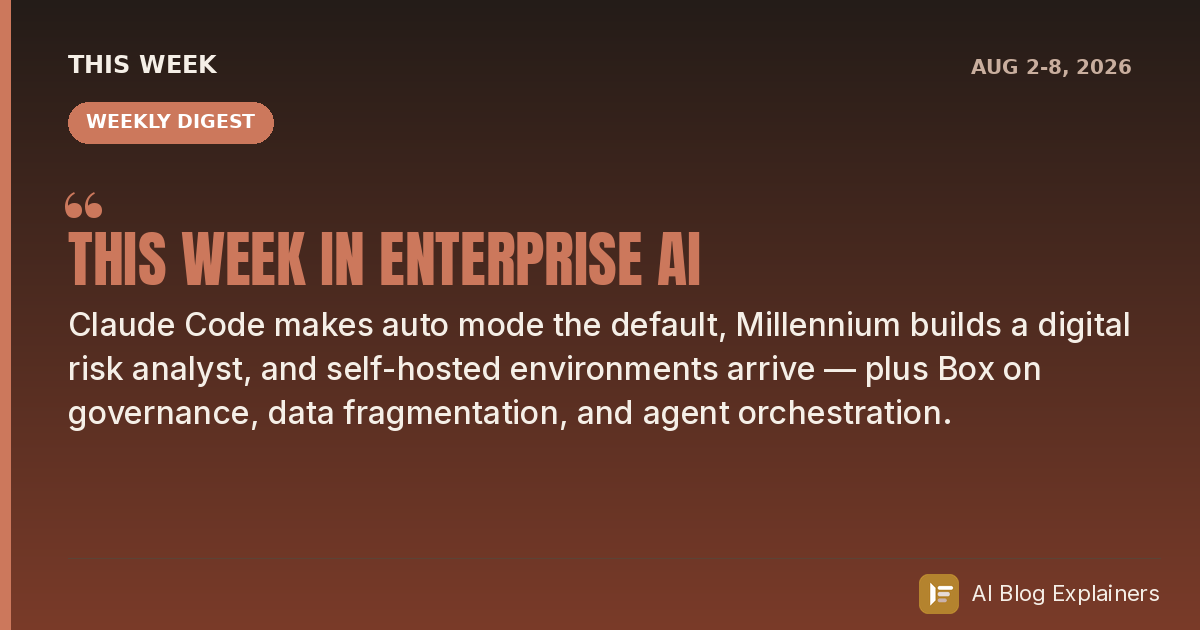
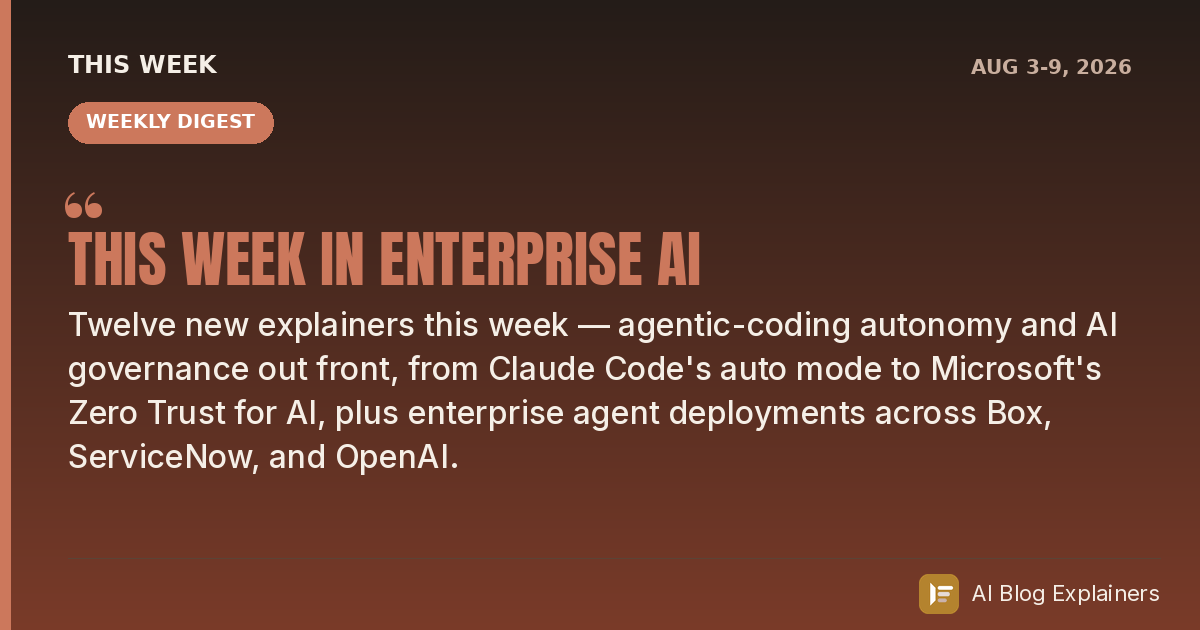
Add explainer + share card: Auto Mode in Production (Nuro, Gusto & Garner Health); refresh weekly rollup

Changed region(s): [[0.0617, 0.4825, 0.9558, 0.6032], [0.0617, 0.6333, 0.8633, 0.754], [0.8633, 0.0905, 0.8942, 0.1206]]

diff --git a/explainers/auto-mode-in-production.html b/explainers/auto-mode-in-production.html
@@ -1,0 +1,328 @@
+<!DOCTYPE html>
+<html lang="en">
+<head>
+<meta charset="UTF-8">
+<meta name="viewport" content="width=device-width, initial-scale=1.0">
+<link rel="icon" href="../favicon.svg" type="image/svg+xml">
+<meta property="og:type" content="article">
+<meta property="og:title" content="Auto Mode in Production: Nuro, Gusto & Garner Health">
+<meta property="og:description" content="Three engineering teams explain why a safety classifier that vets every command became their daily driver — longer autonomous sessions, fewer prompts, and where they still take the wheel back.">
+<meta property="og:url" content="https://snigdhadasgupta.github.io/ai-blog-explainers/explainers/auto-mode-in-production.html">
+<meta property="og:image" content="https://snigdhadasgupta.github.io/ai-blog-explainers/share-cards/auto-mode-in-production.png">
+<meta property="og:image:secure_url" content="https://snigdhadasgupta.github.io/ai-blog-explainers/share-cards/auto-mode-in-production.png">
+<meta property="og:image:type" content="image/png">
+<meta property="og:image:width" content="1200">
+<meta property="og:image:height" content="630">
+<meta name="twitter:card" content="summary_large_image">
+<meta name="twitter:title" content="Auto Mode in Production: Nuro, Gusto & Garner Health">
+<meta name="twitter:image" content="https://snigdhadasgupta.github.io/ai-blog-explainers/share-cards/auto-mode-in-production.png">
+<title>Auto Mode in Production — Explainer</title>
+<style>
+  :root{
+    --clay:#CC785C;--clay-dark:#A8543C;--clay-deep:#7A3B29;--ink:#1F1B18;--slate:#3D3733;--stone:#6B6259;--cream:#F5F2EC;--paper:#FBFAF6;--sand:#EDE7DB;--line:#DED6C7;
+    --accent:#CC785C;--accent-deep:#7A3B29;
+    --serif:'Georgia','Times New Roman',serif;--sans:-apple-system,'Segoe UI',Helvetica,Arial,sans-serif;--mono:'SFMono-Regular','Consolas','Menlo',monospace;
+  }
+  *{box-sizing:border-box;margin:0;padding:0;}
+  body{background:var(--cream);color:var(--ink);font-family:var(--sans);line-height:1.6;-webkit-font-smoothing:antialiased;}
+  .wrap{max-width:1080px;margin:0 auto;padding:0 24px;}
+  .topbar{border-top:5px solid var(--clay);background:var(--paper);border-bottom:1px solid var(--line);}
+  .topbar .wrap{display:flex;align-items:center;justify-content:space-between;padding:16px 24px;}
+  .brand{display:flex;align-items:center;gap:12px;font-weight:700;letter-spacing:.02em;}
+  .brand .dot{width:26px;height:26px;border-radius:6px;background:var(--clay);display:inline-flex;align-items:center;justify-content:center;color:#fff;font-family:var(--serif);font-size:16px;}
+  .srcbadge{font-size:11px;letter-spacing:.14em;text-transform:uppercase;font-weight:700;color:#fff;background:var(--accent);padding:5px 12px;border-radius:100px;}
+  .hero{background:linear-gradient(160deg,#241813 0%,#5E2E20 55%,var(--accent-deep) 100%);color:#F6ECE6;padding:46px 0 40px;position:relative;overflow:hidden;}
+  .herobg{position:absolute;top:0;right:-4%;height:100%;width:42%;pointer-events:none;opacity:.85;}
+  .herobg svg{width:100%;height:100%;display:block;}
+  .hnode{fill:var(--accent);}
+  .hero .wrap{max-width:900px;position:relative;z-index:1;}
+  .hero .tag{display:inline-block;font-size:12px;letter-spacing:.16em;text-transform:uppercase;color:#EBC3B3;border:1px solid rgba(235,195,179,.4);padding:5px 12px;border-radius:100px;margin-bottom:22px;}
+  .hero h1{font-family:var(--serif);font-size:clamp(30px,4.6vw,50px);line-height:1.09;font-weight:700;margin-bottom:18px;}
+  .hero p.lede{font-size:clamp(17px,2.2vw,21px);color:#F0DED5;max-width:720px;}
+  .meta{display:flex;flex-wrap:wrap;gap:24px;margin-top:24px;padding-top:18px;border-top:1px solid rgba(246,236,230,.18);font-size:13px;}
+  .meta .m span{display:block;color:#DCA891;letter-spacing:.12em;text-transform:uppercase;font-size:10.5px;margin-bottom:3px;}
+  .meta .m strong{font-weight:600;color:#F8EFE9;font-size:14px;}
+  section{padding:32px 0;border-bottom:1px solid var(--line);}
+  .eyebrow{font-size:12px;letter-spacing:.16em;text-transform:uppercase;color:var(--accent-deep);font-weight:700;margin-bottom:12px;display:flex;align-items:center;gap:10px;}
+  .eyebrow::before{content:"";width:26px;height:2px;background:var(--accent);display:inline-block;}
+  h2{font-family:var(--serif);font-size:clamp(24px,3.4vw,34px);line-height:1.15;margin-bottom:16px;color:var(--ink);}
+  h3{font-size:19px;margin-bottom:8px;color:var(--slate);}
+  p.body{font-size:16px;color:var(--slate);margin-bottom:12px;max-width:760px;}
+  .lead-quote{font-family:var(--serif);font-size:19px;line-height:1.4;color:var(--accent-deep);border-left:4px solid var(--accent);padding:4px 0 4px 20px;margin:18px 0;max-width:730px;}
+  .tldr{background:var(--paper);border:1px solid var(--line);border-radius:14px;padding:22px 26px;}
+  .tldr h2{font-size:20px;margin-bottom:14px;}
+  .tldr ul{list-style:none;counter-reset:tl;}
+  .tldr li{counter-increment:tl;position:relative;padding-left:46px;margin-bottom:11px;font-size:15.5px;color:var(--slate);}
+  .tldr li::before{content:counter(tl,decimal-leading-zero);position:absolute;left:0;top:-1px;font-family:var(--serif);font-size:19px;font-weight:700;color:var(--accent,var(--clay));}
+  .tldr li strong{color:var(--ink);font-weight:700;}
+  .figure{background:var(--paper);border:1px solid var(--line);border-radius:16px;padding:22px;margin:20px 0;}
+  .figure .cap{font-size:12.5px;color:var(--stone);text-transform:uppercase;letter-spacing:.1em;margin-bottom:20px;font-weight:700;}
+  .scards{display:grid;grid-template-columns:1fr 1fr;gap:14px;margin-top:8px;}
+  @media(max-width:640px){.scards{grid-template-columns:1fr;}}
+  .scard{background:var(--cream);border:1px solid var(--line);border-radius:14px;padding:18px 20px;}
+  .scard .big{font-family:var(--serif);font-size:33px;font-weight:700;color:var(--accent-deep);line-height:1;}
+  .scard .meas{font-size:10.5px;letter-spacing:.12em;text-transform:uppercase;color:var(--stone);font-weight:700;margin:9px 0 4px;}
+  .scard .ctx{font-size:12.5px;color:var(--stone);line-height:1.42;}
+  .fignote{font-size:12px;color:var(--stone);font-style:italic;margin-top:16px;line-height:1.45;}
+  .grid3{display:grid;grid-template-columns:repeat(3,1fr);gap:18px;margin-top:8px;}
+  @media(max-width:820px){.grid3{grid-template-columns:1fr;}}
+  .grid2{display:grid;grid-template-columns:repeat(2,1fr);gap:18px;margin-top:8px;}
+  @media(max-width:820px){.grid2{grid-template-columns:1fr;}}
+  .card{background:var(--paper);border:1px solid var(--line);border-radius:14px;padding:22px;}
+  .card h3{font-size:16px;margin-bottom:8px;}
+  .card p{font-size:13.5px;color:var(--stone);}
+  .card .pill{display:inline-block;font-size:10.5px;letter-spacing:.1em;text-transform:uppercase;font-weight:700;color:var(--accent-deep);background:#F3E0D7;border-radius:100px;padding:4px 11px;margin-bottom:12px;}
+  .rowlist{margin-top:8px;}
+  .rrow{padding:14px 0;border-bottom:1px solid var(--line);}
+  .rrow:last-child{border-bottom:none;}
+  .rrow .rh{display:flex;align-items:center;gap:12px;font-weight:700;color:var(--ink);font-size:15px;}
+  .rrow .rh .co{font-family:var(--serif);font-weight:700;color:var(--accent-deep);font-size:15px;white-space:nowrap;}
+  .rrow .rh .tagline{font-weight:600;color:var(--stone);font-size:12.5px;letter-spacing:.02em;}
+  .rrow p{font-size:13.5px;color:var(--stone);margin-top:5px;max-width:820px;}
+  .callout{background:linear-gradient(135deg,var(--ink),var(--accent-deep));color:#F6ECE6;border-radius:16px;padding:26px 28px;display:flex;flex-wrap:wrap;align-items:center;justify-content:space-between;gap:20px;}
+  .callout h2{color:#fff;margin-bottom:6px;}
+  .callout p{color:#F0DED5;font-size:15px;max-width:560px;}
+  .btn{background:var(--accent);color:#fff;text-decoration:none;padding:13px 24px;border-radius:100px;font-weight:700;font-size:14.5px;white-space:nowrap;}
+  footer{padding:30px 0 46px;color:var(--stone);font-size:12.5px;}
+  footer a{color:var(--accent-deep);}
+  .src{margin-top:8px;}
+  .depthbar{position:sticky;top:0;z-index:50;background:var(--paper);border-bottom:1px solid var(--line);box-shadow:0 2px 10px -8px rgba(0,0,0,.35);}
+  .depthbar .wrap{display:flex;align-items:center;gap:14px;padding:12px 24px;flex-wrap:wrap;}
+  .depthbar .lbl{font-size:11px;letter-spacing:.14em;text-transform:uppercase;font-weight:700;color:var(--stone);}
+  .depthset{display:inline-flex;background:var(--sand);border-radius:100px;padding:4px;gap:2px;}
+  .depthset button{border:none;cursor:pointer;font-family:var(--sans);font-size:13px;font-weight:700;color:var(--slate);background:transparent;padding:7px 16px;border-radius:100px;transition:all .15s;}
+  .depthset button:hover{color:var(--ink);}
+  .depthset button.on{background:var(--accent);color:#fff;box-shadow:0 3px 10px -5px var(--accent-deep);}
+  .depthhint{font-size:12.5px;color:var(--stone);margin-left:auto;}
+  @media(max-width:640px){.depthhint{display:none;}.depthbar .wrap{gap:10px;padding:10px 18px;}.depthset button{padding:7px 13px;font-size:12.5px;}}
+  section[data-depth]{transition:opacity .2s;}
+  .sowhat{background:linear-gradient(135deg,#FFF7ED,#FDECDD);border:1px solid var(--clay);border-left:5px solid var(--clay);border-radius:14px;padding:22px 26px;margin:26px 0 4px;}
+  .sowhat .kick{font-size:11px;letter-spacing:.14em;text-transform:uppercase;font-weight:800;color:var(--clay-deep);display:flex;align-items:center;gap:8px;margin-bottom:9px;}
+  .sowhat .kick::before{content:"\2192";font-size:15px;}
+  .sowhat p{font-size:16px;line-height:1.55;color:var(--slate);margin:0;max-width:820px;}
+  .sowhat p strong{color:var(--ink);}
+</style>
+</head>
+<body>
+
+<div class="topbar">
+  <div class="wrap">
+    <a class="brand" href="../index.html" style="text-decoration:none;color:inherit;"><span class="dot">&#10039;</span> AI Blog Explainer</a>
+    <div class="srcbadge">Claude</div>
+  </div>
+</div>
+
+<header class="hero">
+  <div class="herobg" aria-hidden="true">
+    <svg viewBox="0 0 560 460" preserveAspectRatio="xMaxYMid slice"><g stroke="#fff" stroke-opacity=".18" stroke-width="1.5"><line x1="380" y1="230" x2="250" y2="118"/><line x1="380" y1="230" x2="520" y2="118"/><line x1="380" y1="230" x2="250" y2="342"/><line x1="380" y1="230" x2="520" y2="342"/><line x1="380" y1="230" x2="558" y2="230"/><line x1="380" y1="230" x2="228" y2="230"/></g><circle cx="380" cy="230" r="40" class="hnode"/><circle cx="380" cy="230" r="40" fill="none" stroke="#fff" stroke-opacity=".5" stroke-width="2"/><circle cx="380" cy="230" r="6" fill="#fff"/><g fill="#fff"><circle cx="250" cy="118" r="8" fill-opacity=".8"/><circle cx="520" cy="118" r="8" fill-opacity=".8"/><circle cx="250" cy="342" r="8" fill-opacity=".8"/><circle cx="520" cy="342" r="8" fill-opacity=".8"/><circle cx="558" cy="230" r="7" fill-opacity=".7"/><circle cx="228" cy="230" r="7" fill-opacity=".7"/></g></svg>
+  </div>
+  <div class="wrap">
+    <span class="tag">Claude &middot; Case Study &middot; August 7, 2026</span>
+    <h1>Auto Mode in Production</h1>
+    <p class="lede">Auto mode resolves agentic coding&rsquo;s oldest tension &mdash; speed versus safety. Three teams shipping real software &mdash; Nuro, Gusto, and Garner Health &mdash; explain why a safety classifier that vets every command became their daily driver, and where they still take the wheel back.</p>
+    <div class="meta">
+      <div class="m"><span>Source</span><strong>Claude</strong></div>
+      <div class="m"><span>Topic</span><strong>Agentic coding &middot; Autonomy</strong></div>
+      <div class="m"><span>Teams</span><strong>Nuro &middot; Gusto &middot; Garner Health</strong></div>
+      <div class="m"><span>Reading time</span><strong>5 min</strong></div>
+    </div>
+  </div>
+</header>
+
+<div class="depthbar">
+  <div class="wrap">
+    <span class="lbl">Read at your level</span>
+    <div class="depthset" id="aibe-depth">
+      <button data-lvl="tldr">Summary</button>
+      <button data-lvl="manager">Manager</button>
+      <button data-lvl="tech">Technical</button>
+    </div>
+    <span class="depthhint" id="aibe-depthhint"></span>
+  </div>
+</div>
+
+<section data-depth="tldr">
+  <div class="wrap">
+    <div class="tldr" data-tier-anchor>
+      <h2>The idea in five lines</h2>
+      <ul>
+        <li><strong>Auto mode vets every command</strong> &mdash; a safety classifier approves routine tool calls and blocks the destructive ones, so agents keep working without a human clicking through each prompt.</li>
+        <li><strong>It ends the speed-versus-safety tradeoff</strong> &mdash; Anthropic&rsquo;s classifier caught more dangerous actions than developers did by hand, and sessions now run 9&times; longer between interruptions.</li>
+        <li><strong>Three teams made it the default</strong> &mdash; Nuro, Gusto, and Garner Health run auto mode as their daily driver across autonomous-driving, payroll, and healthcare codebases.</li>
+        <li><strong>The unlock is long-horizon work</strong> &mdash; agents keep going after hours; one Nuro run went from 10 p.m. to 5 a.m. and returned three pull requests by morning.</li>
+        <li><strong>Guardrails still do the heavy lifting</strong> &mdash; deny-lists, governed tool proxies, and switching back to manual review for production infrastructure keep the autonomy inside safe bounds.</li>
+      </ul>
+    </div>
+    <div class="sowhat">
+      <div class="kick">So what for you</div>
+      <p>If your teams are piloting agentic coding, <strong>let auto mode carry the routine and reserve human review for the irreversible</strong> &mdash; deny the handful of catastrophic commands outright, route tools through a governed layer, and keep a person in the loop for production infrastructure and anything sent to other people.</p>
+    </div>
+  </div>
+</section>
+
+<section data-depth="manager">
+  <div class="wrap">
+    <div class="eyebrow">The tradeoff it resolves</div>
+    <h2>Speed or safety &mdash; auto mode stops making you choose</h2>
+    <p class="body">Reviewing every command keeps a human in the loop, but once sessions stretch to hours or run in parallel, that oversight becomes the bottleneck. Skipping permission checks entirely is faster &mdash; and it&rsquo;s also how prompt injection, scope drift, and the occasional deleted production resource slip through. Auto mode closes most of that gap: a classifier evaluates each action and blocks the ones that look dangerous, while everything routine flows through untouched.</p>
+    <p class="body">In internal evaluations, the classifier caught more dangerous actions than developers did when clicking through permission prompts by hand, and its performance held up under third-party red-teaming. Because sessions pause less often, Claude works 9&times; longer between interruptions &mdash; measured across all Claude Code usage.</p>
+    <p class="lead-quote">&ldquo;I use auto mode for 100 percent of my coding work. Most of the time, I open three or four sessions running in parallel and just check in when I need to.&rdquo; &mdash; Kai Zhou, staff software engineer, Nuro</p>
+  </div>
+</section>
+
+<section data-depth="manager">
+  <div class="wrap">
+    <div class="eyebrow">By the numbers</div>
+    <h2>What auto mode looks like at production scale</h2>
+    <div class="figure">
+      <div class="cap">Figure 1 &middot; Auto mode in production, as reported by three teams</div>
+      <div class="scards">
+        <div class="scard"><div class="big">9&times;</div><div class="meas">Longer between interruptions</div><div class="ctx">Across all Claude Code usage, sessions pause less often on auto mode, so Claude runs 9&times; longer between human check-ins than under the previous default.</div></div>
+        <div class="scard"><div class="big">3 PRs</div><div class="meas">From one overnight run</div><div class="ctx">A Nuro research agent studied evaluation false-negatives from 10 p.m. to 5 a.m. and returned three pull requests by morning &mdash; a workload Kai Zhou says only auto mode enables.</div></div>
+        <div class="scard"><div class="big">2,425</div><div class="meas">Sessions on auto mode</div><div class="ctx">One Gusto engineer has driven 2,425 Claude Code sessions since December; cross-repo work that used to stall on folder-access approvals now runs uninterrupted.</div></div>
+        <div class="scard"><div class="big">550</div><div class="meas">Employees on Claude Code</div><div class="ctx">Garner Health rolled Claude Code out to every employee and function &mdash; wired into Salesforce, Zendesk, and Snowflake &mdash; and most now use auto mode each session.</div></div>
+      </div>
+      <p class="fignote">Figures are self-reported by Nuro, Gusto, and Garner Health and describe their own deployments; they are directional, not a controlled benchmark.</p>
+    </div>
+  </div>
+</section>
+
+<section data-depth="manager">
+  <div class="wrap">
+    <div class="eyebrow">Three deployments</div>
+    <h2>Same default, three very different workloads</h2>
+    <div class="rowlist">
+      <div class="rrow">
+        <div class="rh"><span class="co">Nuro</span> <span class="tagline">Physical AI &middot; L4 autonomous driving</span></div>
+        <p>Auto mode powers long-running research agents that hill-climb the evaluation metrics behind the driving stack &mdash; studying false negatives, drafting proposals, and running experiments overnight against a clear, measurable signal. Engineers deny the most dangerous commands, like recursive deletes, outright in their settings and lean heavily on skills, so the classifier makes its calls inside fixed guardrails.</p>
+      </div>
+      <div class="rrow">
+        <div class="rh"><span class="co">Gusto</span> <span class="tagline">Payroll &amp; HR platform</span></div>
+        <p>Adoption began as a proactive security upgrade against permission fatigue. Unattended jobs &mdash; like compiling daily notes from GitHub, Slack, and Jira &mdash; now run on their own, and about 10% of session transcripts since mid-May included an auto-mode denial, evidence the classifier blocks at the right moments without dragging on legitimate work. MCP traffic is routed through a governed proxy with tool guards and prompt inspection before auto mode ever weighs in.</p>
+      </div>
+      <div class="rrow">
+        <div class="rh"><span class="co">Garner Health</span> <span class="tagline">Healthcare technology</span></div>
+        <p>Claude Code reached all 550 employees, with staff encouraged to automate the most repeatable parts of their week. A standardized software-development lifecycle &mdash; shipped as a plugin of skills &mdash; has an agent explore context, commit context files to the repo, run &ldquo;antagonistic research&rdquo; to pressure-test its own assumptions, then implement, pausing for a human only when it hits a gap it can&rsquo;t fill.</p>
+      </div>
+    </div>
+  </div>
+</section>
+
+<section data-depth="tech">
+  <div class="wrap">
+    <div class="eyebrow">Defense in depth</div>
+    <h2>Why &ldquo;let it run&rdquo; isn&rsquo;t the same as &ldquo;no controls&rdquo;</h2>
+    <div class="grid2">
+      <div class="card"><span class="pill">Intent check</span><h3>The classifier watches for drift</h3><p>Beyond blocking destructive commands, it checks that each action still lines up with your original request &mdash; the mechanism that catches prompt injection and scope drift. &ldquo;When it stopped me, it made sense and explained why. It was drifting from what I&rsquo;d originally asked,&rdquo; said Gusto&rsquo;s Chad Kunsman.</p></div>
+      <div class="card"><span class="pill">Hard limits</span><h3>Deny-lists sit below the classifier</h3><p>The riskiest commands &mdash; recursive deletes and the like &mdash; are denied outright in settings. The classifier makes judgment calls inside those boundaries, not in place of them, so a single bad inference can&rsquo;t reach the catastrophic actions.</p></div>
+      <div class="card"><span class="pill">Scoped first</span><h3>Tightly permissioned before it starts</h3><p>Gusto routes MCP traffic through a governed proxy layer with tool guards and prompt inspection, so agents already hold narrowly scoped permissions before auto mode weighs in &mdash; defense in depth, not a single gate.</p></div>
+      <div class="card"><span class="pill">Not on your behalf</span><h3>No messaging other people</h3><p>Both Nuro and Garner configured auto mode <em>not</em> to approve actions that communicate with other people &mdash; Slack messages, emails &mdash; so the agent never speaks under your name. &ldquo;I don&rsquo;t like Claude to just act on my behalf when I&rsquo;m communicating with another person,&rdquo; said Garner&rsquo;s Evan Magnussen.</p></div>
+    </div>
+  </div>
+</section>
+
+<section data-depth="tech">
+  <div class="wrap">
+    <div class="eyebrow">Human still in the loop</div>
+    <h2>The work engineers won&rsquo;t hand to a classifier</h2>
+    <div class="grid2">
+      <div class="card"><span class="pill">Take the wheel</span><h3>Production infrastructure</h3><p>For Terraform, AWS, or direct POST calls against live APIs, Gusto&rsquo;s Chad Kunsman switches to accept-edits and verifies each tool call by hand. &ldquo;You have to weigh the time you&rsquo;re saving against what it could reasonably get wrong, and how catastrophic that would be. Ultimately, you&rsquo;re still responsible for what happens.&rdquo;</p></div>
+      <div class="card"><span class="pill">Take the wheel</span><h3>Speaking for the team</h3><p>Nuro&rsquo;s Kai Zhou flips back to interactive mode when Claude reviews a pull request on his behalf. Anything that goes out under his name &mdash; or touches another team&rsquo;s work &mdash; gets a human read before it ships.</p></div>
+    </div>
+  </div>
+</section>
+
+<section style="border-bottom:none;" data-depth="manager">
+  <div class="wrap">
+    <div class="callout">
+      <div>
+        <h2>Rolling it out? Lean in &mdash; with controls</h2>
+        <p>Garner&rsquo;s advice for enterprises: empower engineers, but build the telemetry and standardized workflows first. &ldquo;Because we have the telemetry, because we&rsquo;ve built out workflows that are relatively standard, we have much more confidence.&rdquo; Start with deny-lists and a governed tool layer, then let auto mode carry the routine.</p>
+      </div>
+      <a class="btn" href="https://claude.com/blog/auto-mode-in-production">Read the post &rarr;</a>
+    </div>
+  </div>
+</section>
+
+<nav id="aibe-nav" style="max-width:1080px;margin:0 auto;padding:22px 24px;display:flex;align-items:center;justify-content:space-between;gap:14px;border-top:1px solid #DED6C7;flex-wrap:wrap;font-family:-apple-system,'Segoe UI',Helvetica,Arial,sans-serif;">
+  <a href="../index.html" style="font-size:13px;font-weight:700;color:#A8543C;text-decoration:none;">&larr; All explainers</a>
+  <div style="display:flex;gap:10px;">
+    <a id="aibe-prev" href="#" style="display:none;font-size:13px;font-weight:700;color:#A8543C;text-decoration:none;border:1px solid #DED6C7;border-radius:100px;padding:8px 15px;">&lsaquo; Prev</a>
+    <a id="aibe-next" href="#" style="display:none;font-size:13px;font-weight:700;color:#A8543C;text-decoration:none;border:1px solid #DED6C7;border-radius:100px;padding:8px 15px;">Next &rsaquo;</a>
+  </div>
+</nav>
+<script>
+(function(){
+  fetch("../feed.xml").then(function(r){return r.text();}).then(function(t){
+    var doc=new DOMParser().parseFromString(t,"application/xml");
+    var items=[].slice.call(doc.querySelectorAll("item")).map(function(it){var l=it.querySelector("link");return l?l.textContent.trim():"";}).filter(Boolean);
+    var mine=location.href.split("#")[0].split("?")[0].split("/").pop();
+    var i=-1; for(var k=0;k<items.length;k++){ if(items[k].split("/").pop()===mine){ i=k; break; } }
+    if(i<0) return;
+    var newer=items[i-1], older=items[i+1];
+    var pe=document.getElementById("aibe-prev"), ne=document.getElementById("aibe-next");
+    if(newer){ pe.href=newer; pe.style.display=""; }
+    if(older){ ne.href=older; ne.style.display=""; }
+  }).catch(function(){});
+})();
+</script>
+
+<footer>
+  <div class="wrap">
+    <p>Explainer artifact generated from the Claude blog &middot; AI Blog Explainers house style (Claude clay palette).</p>
+    <p class="src">Source: <a href="https://claude.com/blog/auto-mode-in-production">Running auto mode in production</a> &mdash; claude.com/blog, August 7, 2026.</p>
+  </div>
+</footer>
+
+<div id="aibe-share" style="position:fixed;right:16px;bottom:16px;display:flex;flex-direction:column;gap:8px;z-index:9999;font-family:-apple-system,'Segoe UI',Helvetica,Arial,sans-serif;">
+  <a href="https://claude.com/blog/auto-mode-in-production" target="_blank" rel="noopener" title="Read the original article"
+     style="background:#7A3B29;color:#fff;text-decoration:none;font-size:12px;font-weight:700;padding:9px 13px;border-radius:100px;box-shadow:0 6px 18px -8px rgba(0,0,0,.5);text-align:center;">Read original &#8599;</a>
+  <button onclick="aibeCopy()" title="Copy link"
+     style="background:#CC785C;color:#fff;border:none;cursor:pointer;font-size:12px;font-weight:700;padding:9px 13px;border-radius:100px;box-shadow:0 6px 18px -8px rgba(0,0,0,.5);">Copy link</button>
+  <div style="display:flex;gap:8px;">
+    <a id="aibe-li" target="_blank" rel="noopener" title="Share on LinkedIn"
+       style="flex:1;background:#0A66C2;color:#fff;text-decoration:none;font-size:12px;font-weight:700;padding:9px 0;border-radius:100px;text-align:center;box-shadow:0 6px 18px -8px rgba(0,0,0,.5);">in</a>
+    <a id="aibe-x" target="_blank" rel="noopener" title="Share on X"
+       style="flex:1;background:#1F1B18;color:#fff;text-decoration:none;font-size:12px;font-weight:700;padding:9px 0;border-radius:100px;text-align:center;box-shadow:0 6px 18px -8px rgba(0,0,0,.5);">X</a>
+  </div>
+</div>
+<script>
+(function(){
+  var u=encodeURIComponent(location.href), t=encodeURIComponent(document.title.replace(" — Explainer",""));
+  document.getElementById("aibe-li").href="https://www.linkedin.com/sharing/share-offsite/?url="+u;
+  document.getElementById("aibe-x").href="https://twitter.com/intent/tweet?url="+u+"&text="+t;
+})();
+function aibeCopy(){
+  navigator.clipboard.writeText(location.href).then(function(){
+    var b=event.target; var o=b.textContent; b.textContent="Copied!"; setTimeout(function(){b.textContent=o;},1400);
+  });
+}
+</script>
+<script>
+(function(){
+  var ORDER={tldr:0,manager:1,tech:2};
+  var HINT={
+    tldr:"Just the five-line summary + the takeaway.",
+    manager:"Summary, why it matters, and what to do — no deep internals.",
+    tech:"Everything, including the guardrails and where teams take the wheel back."
+  };
+  var btns=[].slice.call(document.querySelectorAll('#aibe-depth button'));
+  var hintEl=document.getElementById('aibe-depthhint');
+  function apply(lvl){
+    var max=ORDER[lvl]; if(max===undefined){lvl='manager';max=1;}
+    document.querySelectorAll('section[data-depth]').forEach(function(sec){
+      var t=ORDER[sec.getAttribute('data-depth')];
+      sec.style.display=(t<=max)?'':'none';
+    });
+    btns.forEach(function(b){b.classList.toggle('on',b.getAttribute('data-lvl')===lvl);});
+    if(hintEl) hintEl.textContent=HINT[lvl]||'';
+    try{localStorage.setItem('aibe-depth',lvl);}catch(e){}
+  }
+  btns.forEach(function(b){b.addEventListener('click',function(){apply(b.getAttribute('data-lvl'));});});
+  var saved='manager';
+  try{var v=localStorage.getItem('aibe-depth'); if(v&&ORDER[v]!==undefined)saved=v;}catch(e){}
+  apply(saved);
+})();
+</script>
+</body>
+</html>

diff --git a/this-week.html b/this-week.html
@@ -6,7 +6,7 @@
 <link rel="icon" href="favicon.svg" type="image/svg+xml">
 <meta property="og:type" content="website">
 <meta property="og:title" content="This Week in Enterprise AI">
-<meta property="og:description" content="11 explainers from 4 sources this week — the enterprise, agentic-AI, and governance moves worth your attention, grouped by theme.">
+<meta property="og:description" content="12 explainers from 4 sources this week — the enterprise, agentic-AI, and governance moves worth your attention, grouped by theme.">
 <meta property="og:url" content="https://snigdhadasgupta.github.io/ai-blog-explainers/this-week.html">
 <meta property="og:image" content="https://snigdhadasgupta.github.io/ai-blog-explainers/share-cards/this-week.png">
 <meta property="og:image:secure_url" content="https://snigdhadasgupta.github.io/ai-blog-explainers/share-cards/this-week.png">
@@ -72,7 +72,7 @@
   <div class="wrap">
     <span class="tag">This week &middot; Aug 3 – Aug 7, 2026</span>
     <h1>This Week in Enterprise AI</h1>
-    <p>11 explainers from 4 sources this week — the enterprise, agentic-AI, and governance moves worth your attention, grouped by theme.</p>
+    <p>12 explainers from 4 sources this week — the enterprise, agentic-AI, and governance moves worth your attention, grouped by theme.</p>
   </div>
 </header>
 <main><div class="wrap">
@@ -100,8 +100,14 @@
       </a></div>
     </div>
     <div class="wk-theme">
-      <div class="wk-eyebrow"><span></span>Enterprise case studies <em>1</em></div>
+      <div class="wk-eyebrow"><span></span>Enterprise case studies <em>2</em></div>
       <div class="wk-grid">
+      <a class="wk-card" href="explainers/auto-mode-in-production.html">
+        <div class="wk-top"><span class="wk-badge" style="background:#CC785C">Claude</span><span class="wk-cat">Case Study</span></div>
+        <h3>Auto Mode in Production: Nuro, Gusto & Garner Health</h3>
+        <p>Three engineering teams run Claude Code's auto mode as their daily driver — a safety classifier vets every command, sessions run 9x longer between interruptions, and deny-lists plus human review still guard production infrastructure.</p>
+        <span class="wk-rt">5 min &middot; Read explainer &rarr;</span>
+      </a>
       <a class="wk-card" href="explainers/millennium-and-anthropic-are-building-a-digital-risk-analyst-with-claude.html">
         <div class="wk-top"><span class="wk-badge" style="background:#CC785C">Claude</span><span class="wk-cat">Case Study</span></div>
         <h3>Millennium Is Building a Digital Risk Analyst on Claude</h3>

diff --git a/index.html b/index.html
@@ -297,6 +297,7 @@ const SOURCE_COLORS = {
 const NEW_DAYS = 3;
 
 const POSTS = [
+  {slug:"auto-mode-in-production",title:"Auto Mode in Production: Nuro, Gusto & Garner Health",date:"2026-08-07",source:"Claude",category:"Case Study",readingTime:"5 min",summary:"Three engineering teams run Claude Code's auto mode as their daily driver — a safety classifier vets every command, sessions run 9x longer between interruptions, and deny-lists plus human review still guard production infrastructure."},
   {slug:"auto-mode-default-in-claude-code",title:"Auto Mode Becomes Claude Code's Default",date:"2026-08-07",source:"Claude",category:"AI Governance",readingTime:"5 min",summary:"Claude Code makes auto mode the default on Pro, Max, and Team plans from Aug 14 — routing each tool call through a safety classifier that caught 89% of dangerous commands in a 1,053-tester study versus 13.6% for human review."},
   {slug:"millennium-and-anthropic-are-building-a-digital-risk-analyst-with-claude",title:"Millennium Is Building a Digital Risk Analyst on Claude",date:"2026-08-06",source:"Claude",category:"Case Study",readingTime:"5 min",summary:"Anthropic and Millennium, one of the world's largest alternative investment firms, are co-developing a digital risk analyst that explains daily risk changes across asset classes — logged, sandboxed, and approved by human risk managers."},
   {slug:"run-claude-code-sessions-on-your-own-compute",title:"Self-Hosted Environments for Claude Code",date:"2026-08-06",source:"Claude",category:"Enterprise AI",readingTime:"5 min",summary:"Now in public beta: run Claude Code sessions inside your own network, next to internal services and security controls, so code and build artifacts stay on infrastructure you control — with runners in fixed or on-demand modes."},

diff --git a/share-posts.js b/share-posts.js
@@ -1,5 +1,13 @@
 window.__POSTS__ = [
   {
+      "slug": "auto-mode-in-production",
+      "source": "Claude",
+      "category": "Case Study",
+      "date": "2026-08-07",
+      "hook": "Proven In Production",
+      "body": "Nuro, Gusto, and Garner Health made Claude Code's auto mode their daily driver — a safety classifier vets every command, keeping sessions running 9x longer between interruptions while deny-lists and human review guard the irreversible."
+  },
+  {
       "slug": "auto-mode-default-in-claude-code",
       "source": "Claude",
       "category": "AI Governance",
